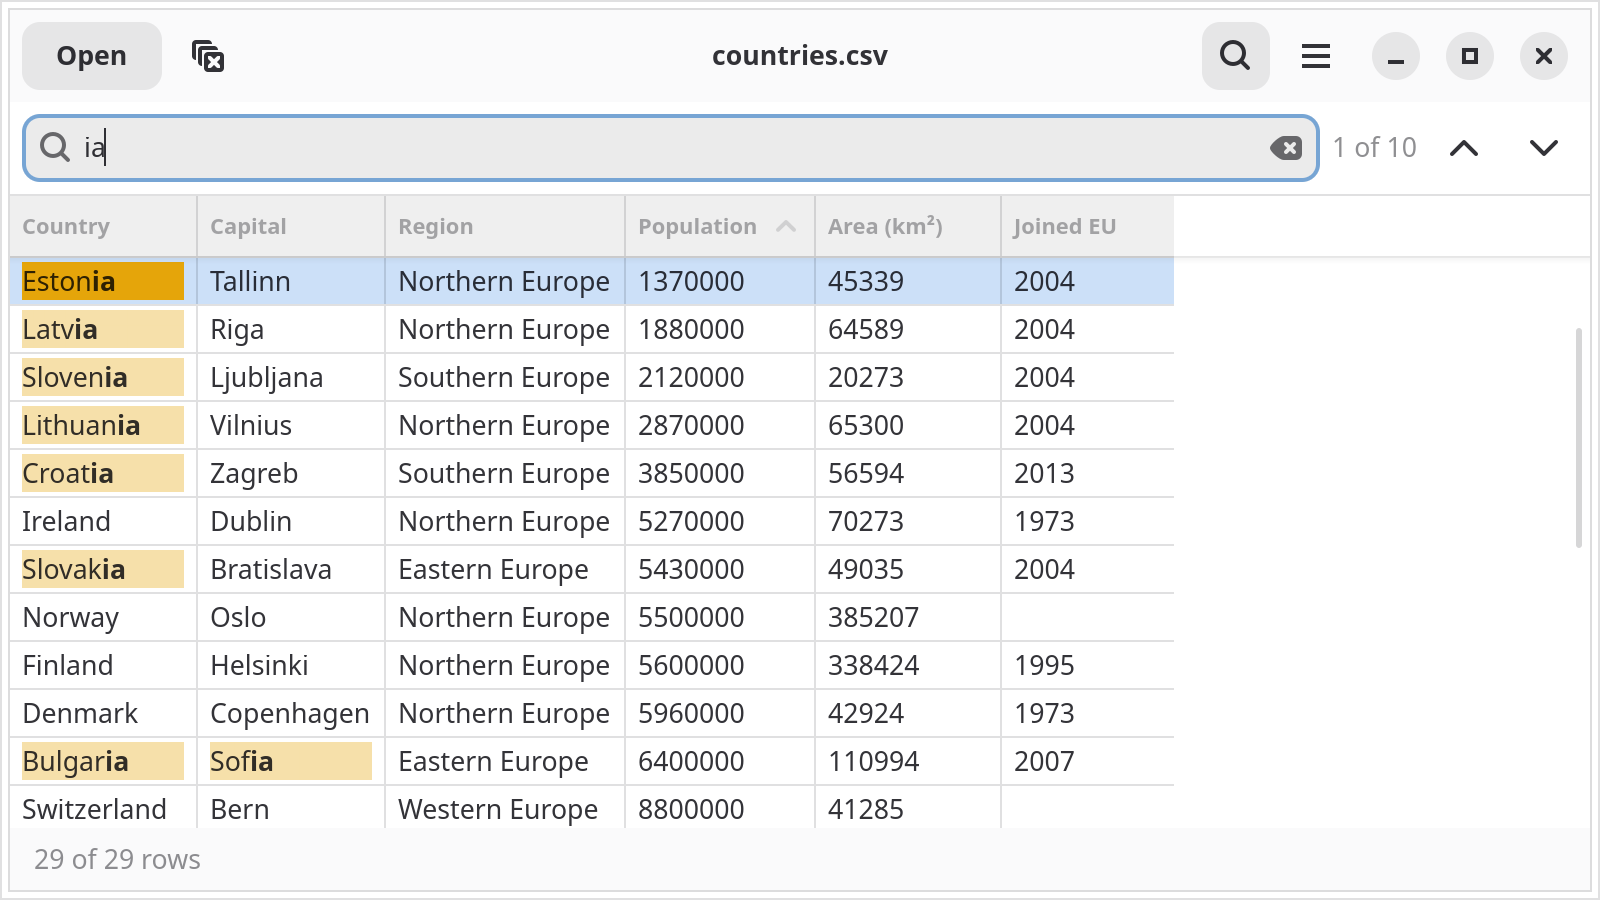
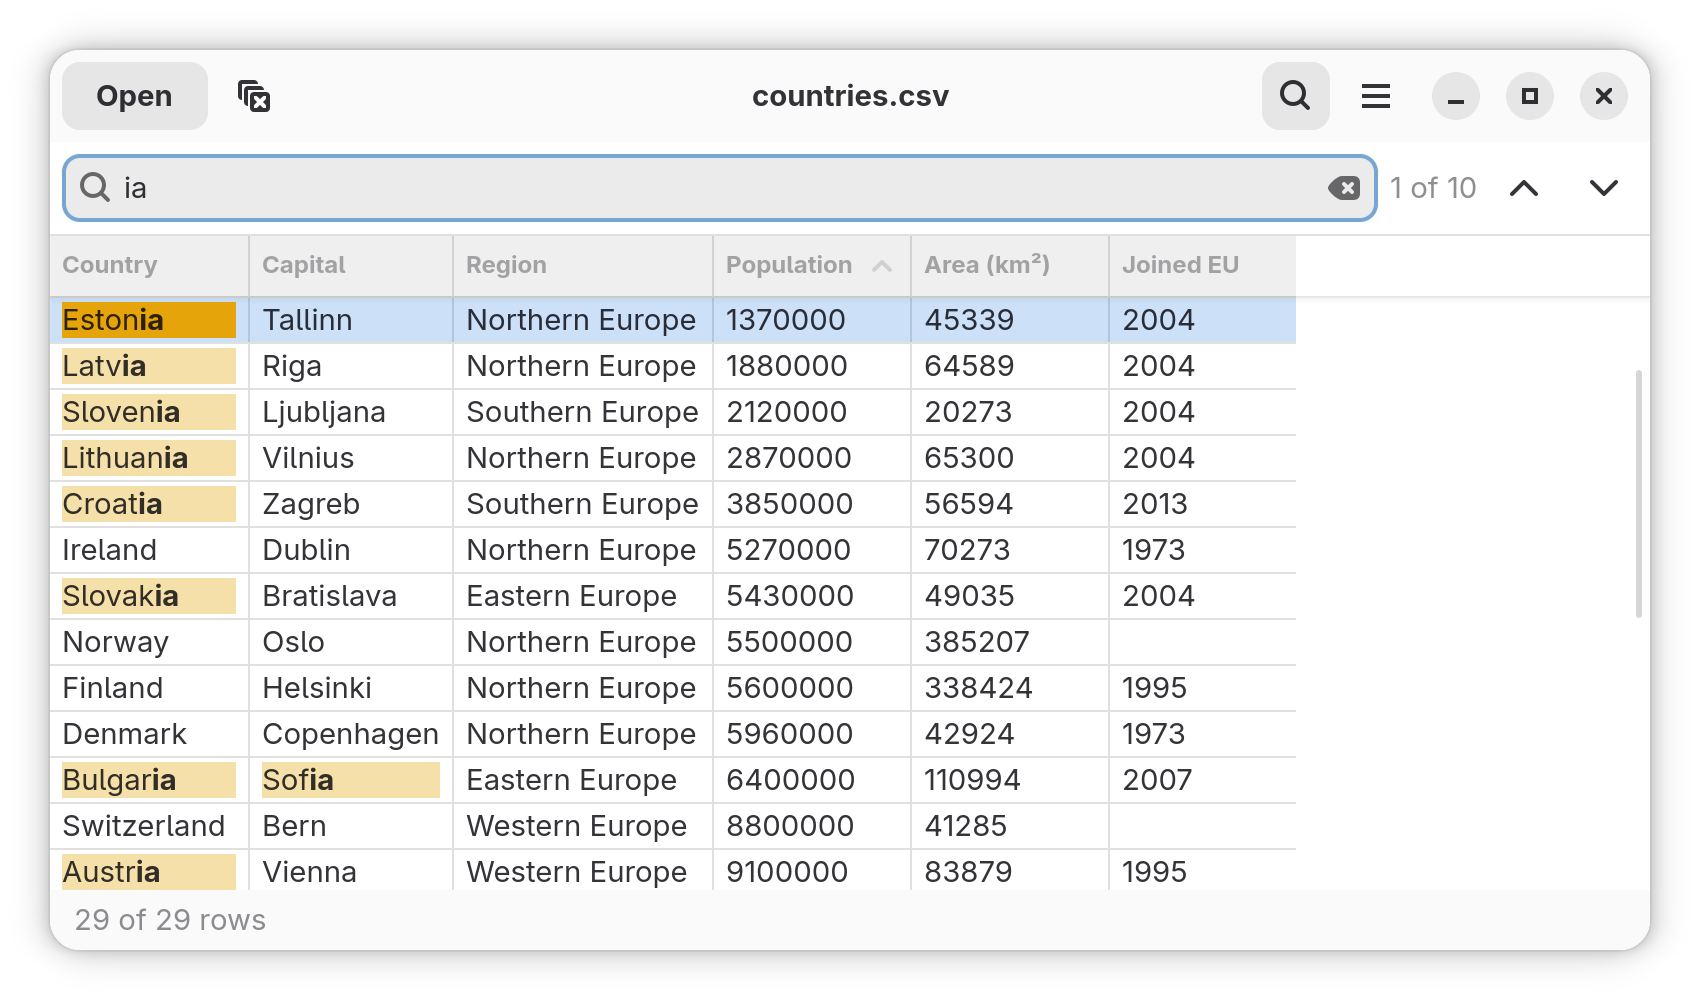
Update the screenshot with the window shadow

Changed region(s): [[0.0, 0.0, 1.0, 1.0], [0.8438, 0.0933, 0.9062, 0.1244]]

diff --git a/_static/style.css b/_static/style.css
@@ -166,10 +166,6 @@ figure.hero-screenshot img {
   max-width: min(900px, 100%);
   display: block;
   margin: 0 auto;
-  border-radius: var(--radius) var(--radius) 0 0;
-  box-shadow: 0 -4px 40px rgba(0,0,0,.5);
-  border: 1px solid rgba(255,255,255,.1);
-  border-bottom: none;
 }
 figure.hero-screenshot figcaption {
   background: rgba(0,0,0,.35);
